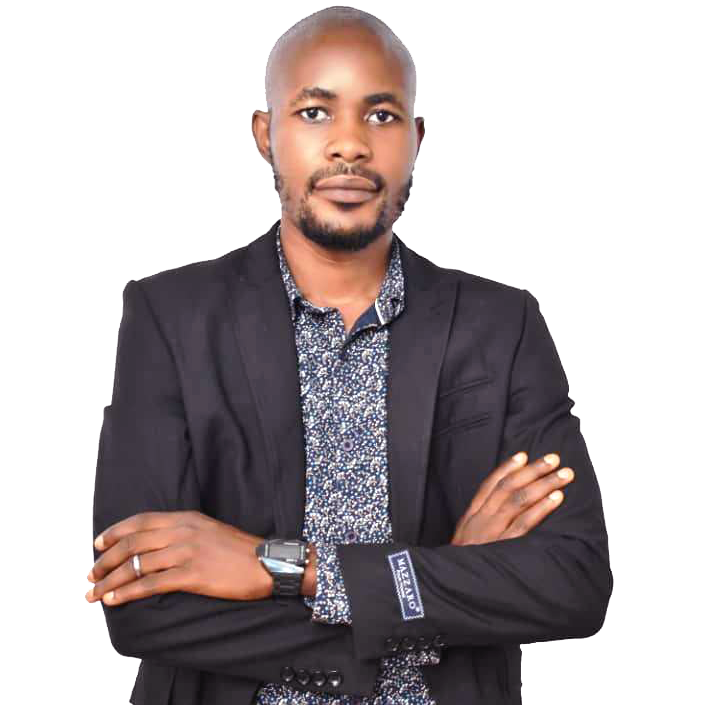
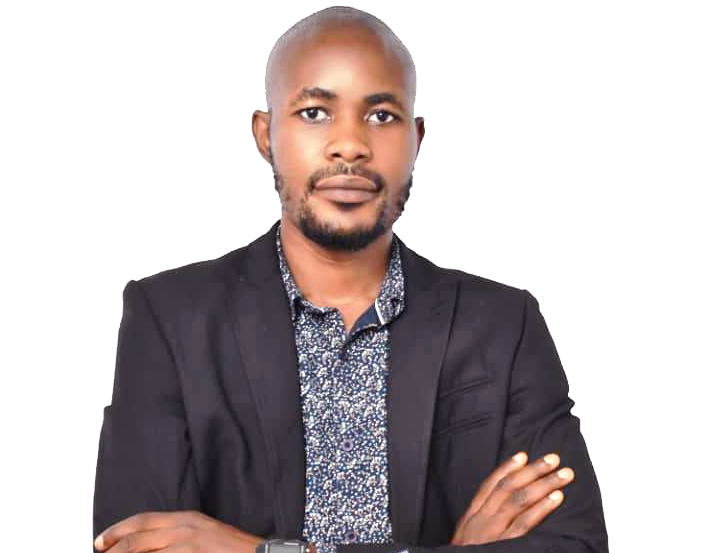
New operations

diff --git a/src/components/Files/Contact.jsx b/src/components/Files/Contact.jsx
@@ -1,6 +1,7 @@
 import React, { useState } from "react";
 import { Link } from 'react-router-dom';
 import logo from '../../assets/logo.png';
+import yemi from '../../assets/yemi.png';
 
 const Contact = () => {
   const [formData, setFormData] = useState({
@@ -52,9 +53,9 @@ const Contact = () => {
         </Link>
       <div className="md:w-1/2 p-8">
       <img
-          src="https://img.freepik.com/free-vector/emails-concept-illustration_114360-1355.jpg?size=626&ext=jpg&ga=GA1.2.149556823.1683788678&semt=sph"
+          src={yemi}
           alt=""
-          className="w-full h-full lg:mt-24 rounded-xl hover:scale-105 transition-all duration-300"
+          className="w-full h-full lg:mt-16 rounded-xl hover:scale-105 transition-all duration-300"
       />
       </div>
       <div className="md:w-1/2 p-8 lg:mt-24">
